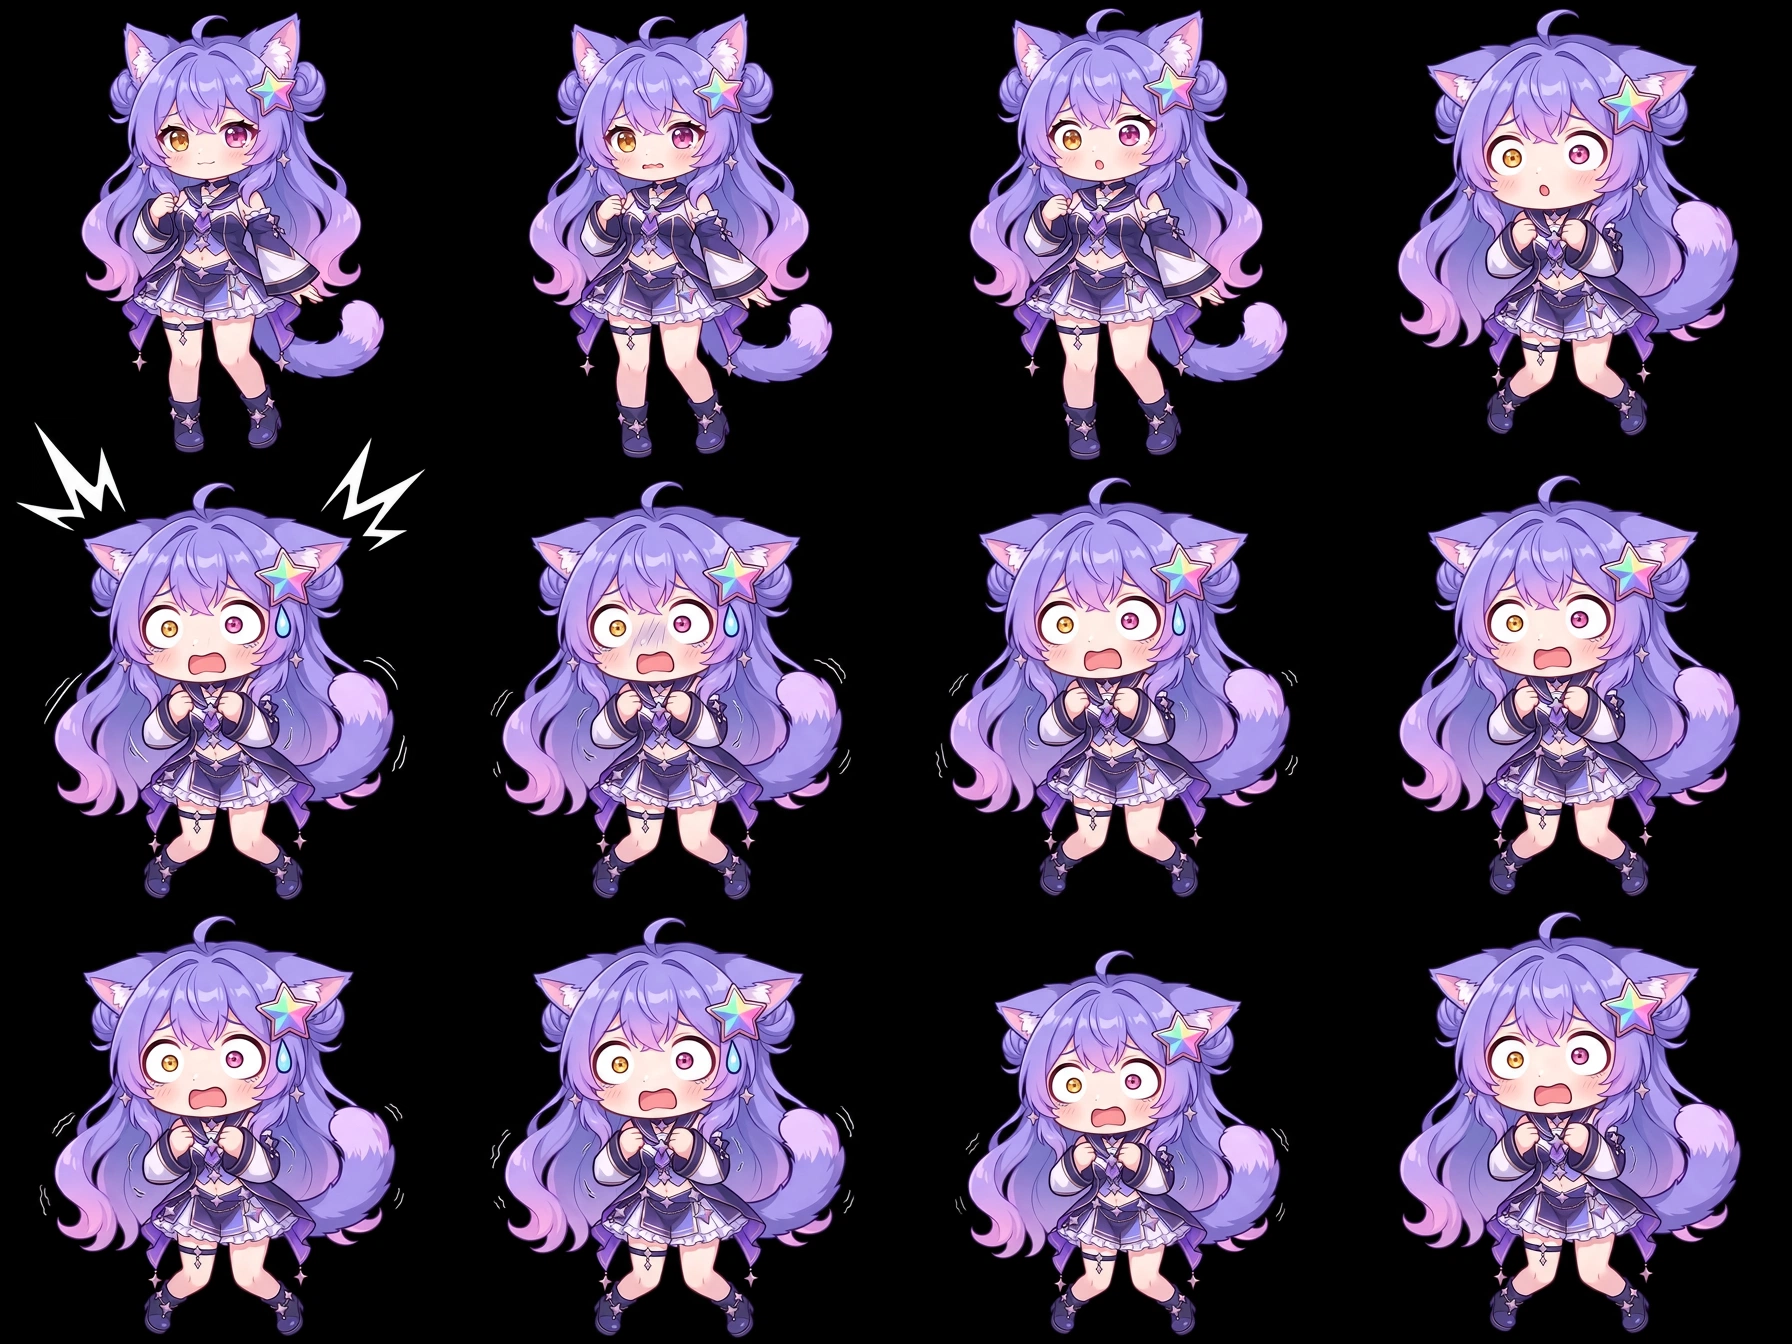
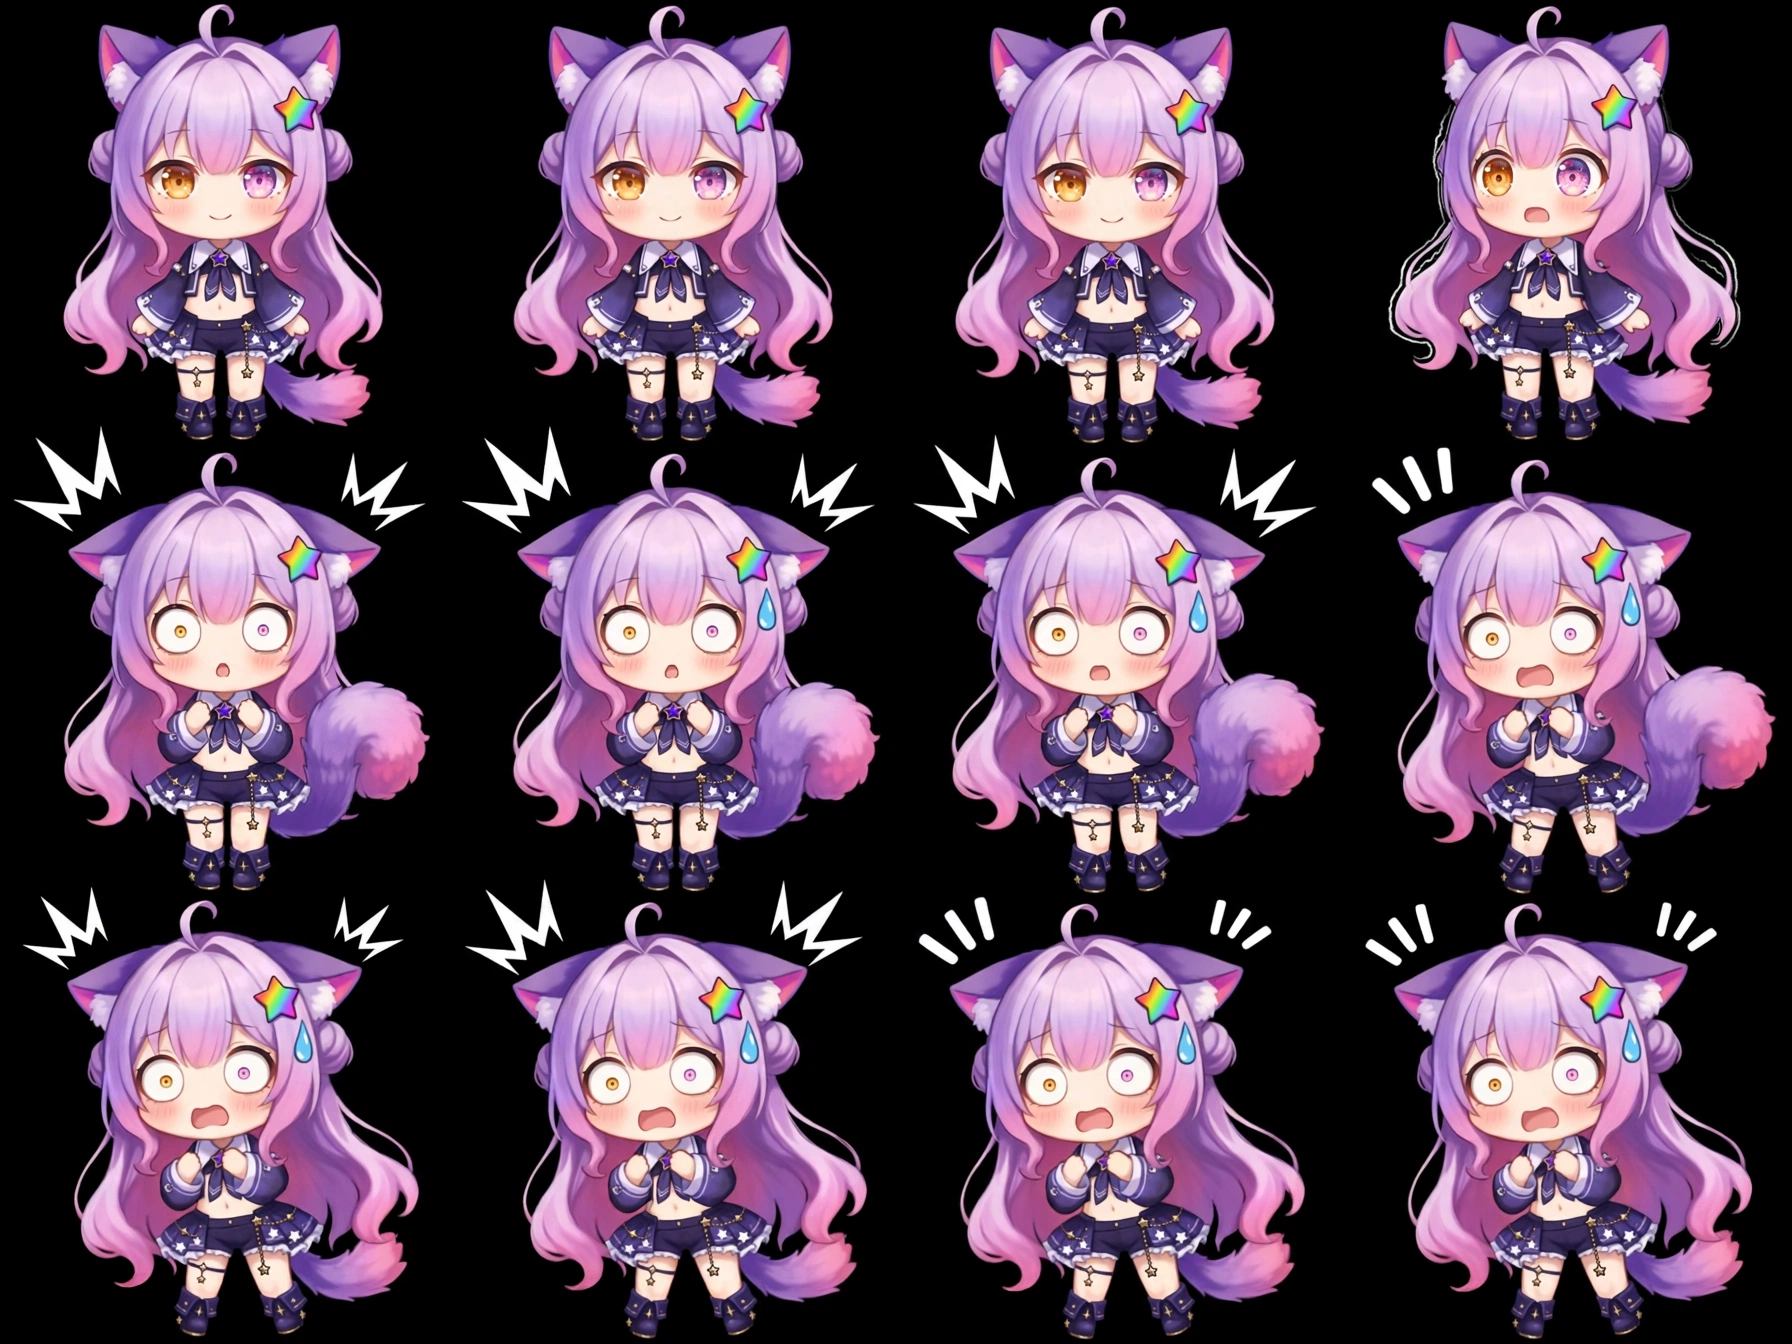
11被戳受惊重做v3：全帧满高、腿脚完整可见，替换成品/素材/预览并补v3脚本

diff --git a/脚本/11process_shock3.py b/脚本/11process_shock3.py
@@ -1,0 +1,143 @@
+#!/usr/bin/env python3
+"""11_poke_shock v3 (redo): full-legs rebuild.
+User rejected v2: middle frames shrank to ~260px with legs/feet unreadable.
+v3 sheets were generated with a hard full-height/full-legs lock in every
+panel; processing mirrors tsundere v6 (per-segment constant scale -> 305,
+feet y=372, binary alpha, standard cleans). 36 frames = 35 drawings +
+doc bookend f36 := f01. Pacing per doc S11: burst 115, tremble ~205,
+relief 200, settle 170."""
+import os
+import sys
+import numpy as np
+from PIL import Image
+
+sys.path.insert(0, "/home/hatch/workspace/star_cat_girl/tsundere")
+import process_tsundere as base
+
+HERE = os.path.dirname(os.path.abspath(__file__))
+OUT = os.path.join(HERE, "proc")
+os.makedirs(OUT, exist_ok=True)
+
+CANVAS, CX, GROUND, VC = base.CANVAS, base.CX, base.GROUND, base.VC
+TARGET_H = base.TARGET_H
+
+SEG1 = "media-generation-poke-shock-v3-seg1-0-75dd6351-2a13-43c0-9c8c-1ad7bc5ef597.webp"
+SEG2 = "media-generation-poke-shock-v3-seg2-0-d88d79f4-c900-4ed2-b004-0fdabdb49150.webp"
+SEG3 = "media-generation-poke-shock-v3-seg3-0-40e76bd0-9539-4819-ad4c-079a78115179.webp"
+
+
+def cell_info(rgba):
+    alpha = rgba[:, :, 3]
+    lab, cs = base.comps(alpha)
+    m = max(cs, key=lambda d: d["size"])
+    gbot = m["y1"]
+    for c in cs:
+        if (c["size"] >= 300 and m["x0"] - 40 <= c["cx"] <= m["x1"] + 40
+                and c["y0"] <= m["y1"] + 60):
+            gbot = max(gbot, c["y1"])
+    return dict(main=m, h=m["y1"] - m["y0"] + 1, bot=gbot,
+                bcx=(m["x0"] + m["x1"]) / 2.0)
+
+
+def main():
+    seg1 = base.extract_sheet(os.path.join(HERE, SEG1))
+    seg2 = base.extract_sheet(os.path.join(HERE, SEG2))
+    seg3 = base.extract_sheet(os.path.join(HERE, SEG3))
+
+    SEQ = ([(c, "seg1") for c in seg1]
+           + [(c, "seg2") for c in seg2]
+           + [(c, "seg3") for c in seg3[:11]])  # seg3 p12 replaced by bookend
+    assert len(SEQ) == 35, len(SEQ)
+
+    DUR = ([250, 170, 170, 130]          # standing -> shiver
+           + [115, 115]                  # shock burst
+           + [205] * 12                  # frozen trembling
+           + [200] * 10                  # relief, blush, tongue
+           + [170] * 7                   # settle
+           + [280])                      # bookend
+    assert len(DUR) == 36, len(DUR)
+
+    infos = [cell_info(rgba) for rgba, _ in SEQ]
+    groups = {}
+    for (_, grp), inf in zip(SEQ, infos):
+        groups.setdefault(grp, []).append(inf["h"])
+    gscale = {}
+    for g, hs in groups.items():
+        if g == "seg1":
+            gscale[g] = TARGET_H / infos[0]["h"]
+        else:
+            gscale[g] = TARGET_H / float(np.median(hs))
+    print("group scales:", {g: round(s, 3) for g, s in sorted(gscale.items())})
+
+    frames = []
+    for (rgba, grp), inf in zip(SEQ, infos):
+        s = gscale[grp]
+        im = Image.fromarray(rgba)
+        nw, nh = max(1, round(VC * s)), max(1, round(VC * s))
+        im2 = im.resize((nw, nh), Image.LANCZOS)
+        ox = int(round(CX - inf["bcx"] * s))
+        oy = int(round(GROUND - inf["bot"] * s))
+        canvas = Image.new("RGBA", (CANVAS, CANVAS), (0, 0, 0, 0))
+        canvas.paste(im2, (ox, oy), im2)
+        arr = np.array(canvas)
+        arr[:, :, 3] = np.where(arr[:, :, 3] >= 128, 255, 0).astype(np.uint8)
+        frames.append(Image.fromarray(arr))
+
+    total_clean = 0
+    for i, fr in enumerate(frames):
+        arr = np.array(fr)
+        alpha = arr[:, :, 3]
+        lab, cs = base.comps(alpha)
+        if not cs:
+            continue
+        main_c = max(cs, key=lambda d: d["size"])
+        rgbmax = arr[:, :, :3].max(axis=2)
+        gbot_f = main_c["y1"]
+        for c in cs:
+            if (c["size"] >= 300 and main_c["x0"] - 40 <= c["cx"] <= main_c["x1"] + 40
+                    and c["y0"] <= main_c["y1"] + 60):
+                gbot_f = max(gbot_f, c["y1"])
+        for c in cs:
+            if c["id"] == main_c["id"]:
+                continue
+            wdt = c["x1"] - c["x0"] + 1
+            hgt = c["y1"] - c["y0"] + 1
+            kill = False
+            if c["y0"] > gbot_f + 2:
+                kill = True
+            if 20 <= c["size"] <= 250 and c["cy"] < main_c["y0"] and rgbmax[c["mask"]].mean() < 145:
+                kill = True
+            if wdt <= 14 and hgt >= 20 and (c["x1"] < 75 or c["x0"] > 309):
+                kill = True
+            if kill:
+                arr[c["mask"], 3] = 0
+                total_clean += c["size"]
+        frames[i] = Image.fromarray(arr)
+    print("cleaned px:", total_clean)
+
+    frames.append(frames[0].copy())  # f36 := f01 (doc bookend)
+    d_last = np.abs(np.array(frames[-1]).astype(int) - np.array(frames[0]).astype(int)).max()
+    print("f36 := own f01, diff:", d_last)
+    semi = sum(int(((np.array(f)[:, :, 3] > 0) & (np.array(f)[:, :, 3] < 255)).sum()) for f in frames)
+    print("semi-transparent px:", semi)
+    print("total duration:", sum(DUR), "ms  frames:", len(frames))
+    hs = []
+    for f in frames:
+        a = np.array(f)[:, :, 3]
+        ys = np.where(a > 0)[0]
+        hs.append(int(ys.max() - ys.min() + 1))
+    print("frame heights:", hs)
+
+    for i, fr in enumerate(frames):
+        fr.save(os.path.join(OUT, f"f{i + 1:02d}.png"))
+    atlas = Image.new("RGBA", (CANVAS * 6, CANVAS * 6), (0, 0, 0, 0))
+    for i, fr in enumerate(frames):
+        atlas.paste(fr, ((i % 6) * CANVAS, (i // 6) * CANVAS))
+    atlas.save(os.path.join(HERE, "poke_shock_atlas.webp"), lossless=True)
+    frames[0].save(os.path.join(HERE, "poke_shock_anim.webp"), save_all=True,
+                   append_images=frames[1:], duration=DUR, loop=0, lossless=True)
+    print("saved atlas (6x6) + anim + proc")
+
+
+if __name__ == "__main__":
+    main()
